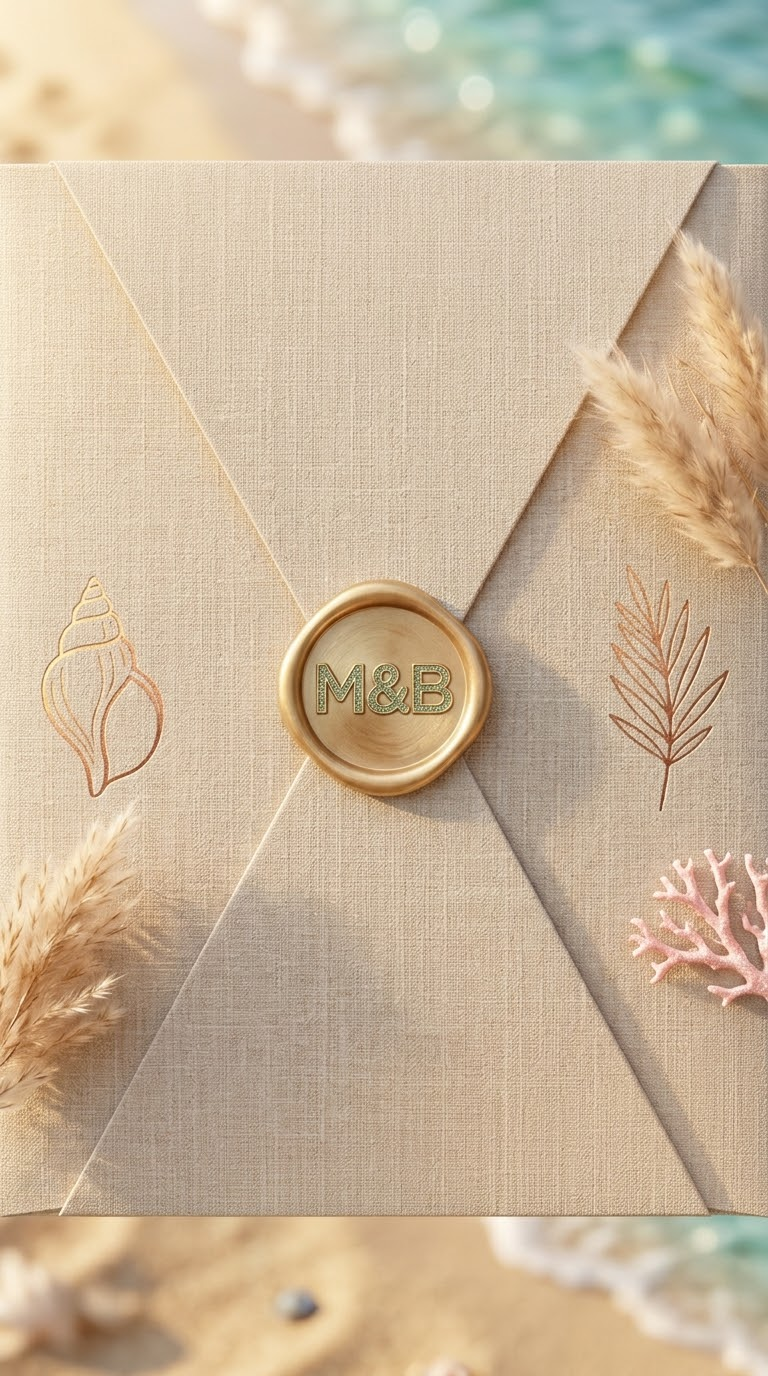
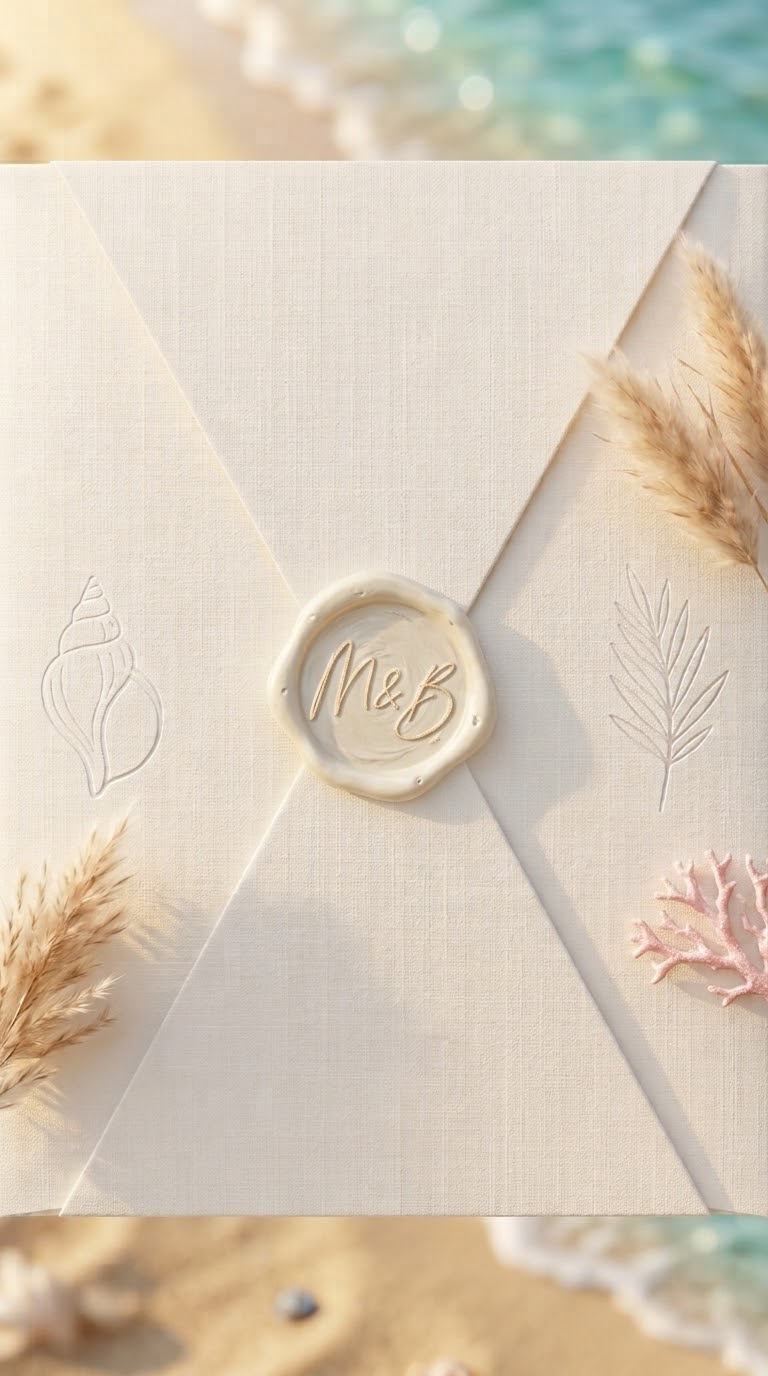
Nieuwe witte envelop, zachtere muziek, langer zonsondergangbeeld, rustiger overgang

diff --git a/envelope.js b/envelope.js
@@ -1,6 +1,6 @@
 // Bouwt de strandenvelop (assets/envelop-strand.png) op in losse lagen:
 // achtergrond, vier kleppen met een linnen binnenkant, het zegel in twee helften
-// en een kaart van de rosé-gouden folie waarlangs het zonlicht loopt.
+// en een kaart van het blinddruk-reliëf (schelp en blad) waarlangs het zonlicht loopt.
 // De beweging zelf staat in styles.css; deze code knipt alleen de lagen uit.
 
 // Maten in pixels van de originele afbeelding (768 × 1376).
@@ -16,18 +16,15 @@ const G = {
   bottomTip: [386, 660],
   leftTip: [365, 695],
   rightTip: [409, 700],
-  seal: [385, 688, 114], // midden en straal
+  seal: [383, 686, 117], // midden en straal
   // het puntje van de pampaspluim valt over de vouwlijn van de bovenklep; dat stukje gaat mee met de rechterklep
   notch: [[614, 330], [585, 340], [572, 356], [580, 372], [595, 372]],
   foil: [[30, 565, 150, 245], [600, 560, 128, 260]], // schelp en blad: x, y, breedte, hoogte
   linen: [170, 190, 420, 150], // schoon stuk linnen, voor de binnenkant van de kleppen
-  letters: [312, 658, 148, 64], // de oorspronkelijke letters M&B op het zegel: x, y, breedte, hoogte
-  // M, & en B uit assets/namen.png (La Luxes Script): begin en eind in pixels
-  glyphs: { M: [14, 163], amp: [412, 512], B: [556, 685] },
   water: [[380, 20, 388, 130], [480, 1235, 288, 120]], // zee boven en onder de envelop, voor de schittering
 };
 
-export async function buildEnvelope(stage, src, lettersSrc) {
+export async function buildEnvelope(stage, src) {
   const img = new Image();
   img.src = src;
   await img.decode();
@@ -36,17 +33,13 @@ export async function buildEnvelope(stage, src, lettersSrc) {
   const h = img.naturalHeight;
   const k = w / G.width;
   const scale = (v) => (Array.isArray(v) ? v.map(scale) : v * k);
-  const g = Object.fromEntries(Object.entries(G).map(([key, v]) => [key, key === 'glyphs' ? v : scale(v)]));
+  const g = Object.fromEntries(Object.entries(G).map(([key, v]) => [key, scale(v)]));
   const pct = (x, y) => `${((x / w) * 100).toFixed(3)}% ${((y / h) * 100).toFixed(3)}%`;
 
   stage.style.aspectRatio = `${w} / ${h}`;
   const scene = stage.querySelector('.env-scene');
 
   const original = canvasFrom(img, w, h);
-  const lettering = new Image();
-  lettering.src = lettersSrc;
-  await lettering.decode();
-  engraveMonogram(original, lettering, g, k);
   const originalData = original.getContext('2d').getImageData(0, 0, w, h);
 
   /* Kleppen: vlakken van de envelop; onder het zegel aangevuld met linnen */
@@ -63,6 +56,11 @@ export async function buildEnvelope(stage, src, lettersSrc) {
     bottom: [g.bottomLeft, g.bottomTip, g.bottomRight],
     top: [g.topLeft, g.topRight, ...notch, g.topTip],
   };
+  // Heel papier onder de kleppen, zodat de kniplijnen tussen de kleppen niet doorschemeren zolang ze dicht zijn.
+  const under = makeCanvas(w, h);
+  under.getContext('2d').drawImage(paper, 0, 0);
+  under.className = 'env-layer env-paper';
+  scene.querySelector('.env-flaps').append(under);
   const linenTile = linenCanvas(original, g.linen);
   const linenUrl = linenTile.toDataURL('image/jpeg', 0.85);
 
@@ -90,7 +88,7 @@ export async function buildEnvelope(stage, src, lettersSrc) {
   }
 
   /* Zegel: goud uit de afbeelding geknipt, in twee helften langs een grillige breuk */
-  const sealMask = sealCanvas(original, originalData, sx, sy, sr, k);
+  const sealMask = sealCanvas(original, sx, sy, sr, k);
   const crack = [];
   for (let i = 0; i <= 10; i++) crack.push([sx + (i % 2 ? 7 : -6) * k * (i === 0 || i === 10 ? 0 : 1), sy - sr + (i / 10) * 2 * sr]);
   const halves = ['left', 'right'].map((side) => {
@@ -165,74 +163,6 @@ export async function buildEnvelope(stage, src, lettersSrc) {
   };
 }
 
-// Vervangt de letters op het zegel door M&B in La Luxes, als in het goud gedrukt.
-function engraveMonogram(canvas, lettering, g, k) {
-  const ctx = canvas.getContext('2d');
-  const [lx, ly, lw, lh] = g.letters;
-
-  // 1. oude letters weg: elke kolom vloeit over van het goud erboven naar het goud eronder
-  const image = ctx.getImageData(0, 0, canvas.width, canvas.height);
-  const { data, width } = image;
-  const top = Math.round(ly);
-  const bottom = Math.round(ly + lh);
-  const feather = 6 * k;
-  for (let x = Math.round(lx - feather); x <= lx + lw + feather; x++) {
-    const edge = Math.min(1, Math.min(x - (lx - feather), lx + lw + feather - x) / feather);
-    for (let y = top; y <= bottom; y++) {
-      const f = (y - top) / (bottom - top);
-      const i = (y * width + x) * 4;
-      const a = (top * width + x) * 4;
-      const b = (bottom * width + x) * 4;
-      for (let c = 0; c < 3; c++) data[i + c] = data[i + c] * (1 - edge) + (data[a + c] * (1 - f) + data[b + c] * f) * edge;
-    }
-  }
-  ctx.putImageData(image, 0, 0);
-
-  // 2. M, & en B uit de namen knippen en tot één monogram samenvoegen
-  const parts = [g.glyphs.M, g.glyphs.amp, g.glyphs.B];
-  const overlap = 18;
-  const glyphW = parts.reduce((sum, [a, b]) => sum + (b - a), 0) - overlap * (parts.length - 1);
-  const mono = makeCanvas(glyphW + 8, lettering.height);
-  const mctx = mono.getContext('2d');
-  let cursor = 4;
-  for (const [a, b] of parts) {
-    mctx.drawImage(lettering, a, 0, b - a, lettering.height, cursor, 0, b - a, lettering.height);
-    cursor += b - a - overlap;
-  }
-
-  // 3. in drie lagen op het zegel: schaduw, goud en een lichte rand bovenaan
-  const targetW = 150 * k;
-  const scale = targetW / mono.width;
-  const dw = mono.width * scale;
-  const dh = mono.height * scale;
-  const [sx, sy] = g.seal;
-  const dx = sx - dw / 2;
-  const dy = sy - dh / 2 + 4 * k;
-  const tint = (color) => {
-    const c = makeCanvas(mono.width, mono.height);
-    const tctx = c.getContext('2d');
-    tctx.drawImage(mono, 0, 0);
-    tctx.globalCompositeOperation = 'source-in';
-    tctx.fillStyle = color;
-    tctx.fillRect(0, 0, c.width, c.height);
-    return c;
-  };
-  const shadow = tint('rgba(92, 60, 18, 0.75)');
-  const body = tint('#a87a2c');
-  const light = tint('rgba(255, 241, 196, 0.9)');
-  const stamp = (layer, ox, oy) => {
-    // de lijnen zijn dun op dit formaat; een paar keer licht verschoven stempelen maakt ze voller
-    for (const [ax, ay] of [[0, 0], [0.5, 0], [0, 0.5], [0.5, 0.5]]) ctx.drawImage(layer, dx + (ox + ax) * k, dy + (oy + ay) * k, dw, dh);
-  };
-  ctx.save();
-  ctx.shadowColor = 'rgba(90, 60, 20, 0.35)';
-  ctx.shadowBlur = 2 * k;
-  stamp(shadow, 0.9, 1.2);
-  ctx.restore();
-  stamp(light, -0.7, -0.7);
-  stamp(body, 0, 0);
-}
-
 function pathOf(points) {
   const p = new Path2D();
   points.forEach(([x, y], i) => (i ? p.lineTo(x, y) : p.moveTo(x, y)));
@@ -277,47 +207,40 @@ function linenCanvas(original, [lx, ly, lw, lh]) {
   return c;
 }
 
-// Het gouden zegel: alles binnen de cirkel dat duidelijk goud is, met een zachte rand.
-function sealCanvas(original, originalData, cx, cy, r, k) {
+// Het zegel: een cirkel met een zachte rand (ivoor op wit linnen is niet op kleur te scheiden).
+function sealCanvas(original, cx, cy, r, k) {
   const { width: w, height: h } = original;
   const out = makeCanvas(w, h);
   const ctx = out.getContext('2d');
-  const image = ctx.createImageData(w, h);
-  const d = image.data;
-  const s = originalData.data;
-  for (let y = Math.floor(cy - r); y <= cy + r; y++) {
-    for (let x = Math.floor(cx - r); x <= cx + r; x++) {
-      const dist = Math.hypot(x - cx, y - cy);
-      if (dist > r) continue;
-      const i = (y * w + x) * 4;
-      const warm = s[i] - s[i + 2];
-      let a = Math.min(1, Math.max(0, (warm - 52) / 22));
-      if (dist < r - 30 * k) a = 1; // het midden met de letters altijd meenemen
-      a *= Math.min(1, (r - dist) / 3);
-      d[i] = s[i];
-      d[i + 1] = s[i + 1];
-      d[i + 2] = s[i + 2];
-      d[i + 3] = a * 255;
-    }
-  }
-  ctx.putImageData(image, 0, 0);
+  const soft = ctx.createRadialGradient(cx, cy, r - 3 * k, cx, cy, r);
+  soft.addColorStop(0, '#000');
+  soft.addColorStop(1, 'rgba(0, 0, 0, 0)');
+  ctx.fillStyle = soft;
+  ctx.beginPath();
+  ctx.arc(cx, cy, r, 0, Math.PI * 2);
+  ctx.fill();
+  ctx.globalCompositeOperation = 'source-in';
+  ctx.drawImage(original, 0, 0);
   return out;
 }
 
-// De rosé-gouden lijntjes van schelp en blad: warmer en donkerder dan het linnen eromheen.
+// De lijnen van schelp en blad zijn blind in het papier gedrukt: ze vallen op doordat ze
+// lichter of donkerder zijn dan het papier vlak eromheen (hoogdoorlaat van de helderheid).
 function foilMask(originalData, g, w) {
   const s = originalData.data;
-  const on = new Uint8Array(s.length / 4);
-  const strength = new Uint8Array(s.length / 4);
+  const h = s.length / 4 / w;
+  const lum = new Float32Array(w * h);
+  for (let p = 0; p < w * h; p++) lum[p] = 0.3 * s[p * 4] + 0.59 * s[p * 4 + 1] + 0.11 * s[p * 4 + 2];
+  const r = Math.max(2, Math.round((5 * w) / 768));
+  const blurred = boxBlur(boxBlur(lum, w, h, r), w, h, r);
+  const on = new Uint8Array(w * h);
+  const strength = new Uint8Array(w * h);
   for (const [bx, by, bw, bh] of g.foil) {
     for (let y = Math.round(by); y < by + bh; y++) {
       for (let x = Math.round(bx); x < bx + bw; x++) {
         const p = y * w + x;
-        const i = p * 4;
-        const warm = s[i] - s[i + 2];
-        const lum = 0.3 * s[i] + 0.59 * s[i + 1] + 0.11 * s[i + 2];
-        const a = Math.min(1, Math.max(0, (warm - 52) / 25)) * Math.min(1, Math.max(0, (196 - lum) / 20));
-        if (a > 0.3) {
+        const a = Math.min(1, Math.max(0, (Math.abs(lum[p] - blurred[p]) - FOIL_THRESHOLD) / 6));
+        if (a > 0.25) {
           on[p] = 1;
           strength[p] = a * 255;
         }
@@ -326,8 +249,34 @@ function foilMask(originalData, g, w) {
   }
   return { on, strength };
 }
+const FOIL_THRESHOLD = 7;
 
-// Zoekt alle losse lijnen in de foliekaart en berekent per pixel wanneer het licht er aankomt.
+// Kastfilter: eerst horizontaal, dan verticaal, met een lopende som.
+function boxBlur(src, w, h, r) {
+  const tmp = new Float32Array(w * h);
+  const out = new Float32Array(w * h);
+  const size = 2 * r + 1;
+  for (let y = 0; y < h; y++) {
+    const row = y * w;
+    let sum = 0;
+    for (let x = -r; x <= r; x++) sum += src[row + Math.min(w - 1, Math.max(0, x))];
+    for (let x = 0; x < w; x++) {
+      tmp[row + x] = sum / size;
+      sum += src[row + Math.min(w - 1, x + r + 1)] - src[row + Math.max(0, x - r)];
+    }
+  }
+  for (let x = 0; x < w; x++) {
+    let sum = 0;
+    for (let y = -r; y <= r; y++) sum += tmp[Math.min(h - 1, Math.max(0, y)) * w + x];
+    for (let y = 0; y < h; y++) {
+      out[y * w + x] = sum / size;
+      sum += tmp[Math.min(h - 1, y + r + 1) * w + x] - tmp[Math.max(0, y - r) * w + x];
+    }
+  }
+  return out;
+}
+
+// Zoekt alle losse lijnen in de reliëfkaart en berekent per pixel wanneer het licht er aankomt.
 function traceRoutes({ on, strength }, w, h, g) {
   const [sx, sy] = g.seal;
   const dist = new Float32Array(w * h).fill(-1);

diff --git a/styles.css b/styles.css
@@ -73,7 +73,7 @@ body.is-sealed .hero > * { animation-play-state: paused; }
   z-index: 20;
   overflow: hidden;
   background: #e6dccd;
-  transition: opacity 1s ease;
+  transition: opacity 2.4s ease;
 }
 .env-backdrop {
   position: absolute;
@@ -99,7 +99,7 @@ body.is-sealed .hero > * { animation-play-state: paused; }
   inset: 0;
   perspective: 2200px;
   transform-origin: 50% 46%;
-  transition: transform 1.5s cubic-bezier(0.55, 0, 0.2, 1);
+  transition: transform 3s cubic-bezier(0.45, 0, 0.25, 1);
 }
 
 .env-layer { position: absolute; inset: 0; width: 100%; height: 100%; display: block; pointer-events: none; }
@@ -186,6 +186,7 @@ body.is-sealed .hero > * { animation-play-state: paused; }
 
 /* A: de vier kleppen vouwen om hun buitenrand open: eerst boven, dan onder, dan de zijkanten */
 .env-flaps { position: absolute; inset: 0; }
+.envelope.open .env-paper { visibility: hidden; }
 .env-flap {
   position: absolute;
   inset: 0;
@@ -233,7 +234,7 @@ body.is-sealed .hero > * { animation-play-state: paused; }
 .envelope.crack .env-seal-left { transform: translate(-7%, 26%) rotate(-24deg); opacity: 0; }
 .envelope.crack .env-seal-right { transform: translate(7%, 30%) rotate(20deg); opacity: 0; }
 
-.envelope.zoom .env-scene { transform: scale(1.7); }
+.envelope.zoom .env-scene { transform: scale(1.35); }
 
 /* De namen vliegen van de zonsondergang naar hun plek op de site */
 .names-flight {
@@ -243,7 +244,7 @@ body.is-sealed .hero > * { animation-play-state: paused; }
   background: #fffaf2;
   filter: drop-shadow(0 2px 12px rgba(120, 50, 10, 0.45));
   pointer-events: none;
-  transition: left 1.6s cubic-bezier(0.6, 0, 0.2, 1), top 1.6s cubic-bezier(0.6, 0, 0.2, 1), width 1.6s cubic-bezier(0.6, 0, 0.2, 1), background-color 1.1s ease 0.25s, filter 1.1s ease 0.25s;
+  transition: left 2.6s cubic-bezier(0.45, 0, 0.25, 1), top 2.6s cubic-bezier(0.45, 0, 0.25, 1), width 2.6s cubic-bezier(0.45, 0, 0.25, 1), background-color 1.4s ease 1.2s, filter 1.4s ease 1.2s;
 }
 .names-flight.land { background: var(--ink); filter: drop-shadow(0 0 0 transparent); }
 body.names-handoff .hero-names { animation: none; visibility: hidden; }
@@ -252,11 +253,12 @@ body.names-handoff .hero-names { animation: none; visibility: hidden; }
   position: absolute;
   left: 0;
   right: 0;
-  top: 26%;
+  top: 29%;
   margin: 0;
   text-align: center;
-  font: 400 clamp(32px, 9vw, 50px) / 1.1 var(--font-script);
-  color: #8f7658;
+  font: 300 clamp(13px, 3.6vw, 16px) / 1.5 var(--font-sans);
+  letter-spacing: 0.04em;
+  color: #8d8174;
   transition: opacity 0.6s;
 }
 .env-hint {

diff --git a/app.js b/app.js
@@ -93,7 +93,7 @@ async function setupEnvelope(invitation) {
 
   let light;
   try {
-    light = await buildEnvelope($('#env-stage'), 'assets/envelop-strand.png', 'assets/namen.png');
+    light = await buildEnvelope($('#env-stage'), 'assets/envelop-strand.png');
   } catch {
     return remove();
   }
@@ -112,14 +112,15 @@ async function setupEnvelope(invitation) {
     step('crack', 1450);
     step('open', 1800);
     step('names', 3100);
-    setTimeout(flyNames, 3900);
-    step('zoom', 3900);
-    step('fade', 4100);
-    setTimeout(() => document.body.classList.remove('is-sealed'), 4300);
+    // de zonsondergang met jullie namen blijft even rustig in beeld
+    setTimeout(flyNames, 6800);
+    step('zoom', 6800);
+    step('fade', 7200);
+    setTimeout(() => document.body.classList.remove('is-sealed'), 7800);
     setTimeout(() => {
       light.stop();
       remove();
-    }, 5500);
+    }, 10000);
   };
 
   // De namen op de zonsondergang schuiven naar hun plek bovenaan de site en kleuren mee van wit naar inkt.
@@ -141,7 +142,7 @@ async function setupEnvelope(invitation) {
     setTimeout(() => {
       document.body.classList.remove('names-handoff');
       flight.remove();
-    }, 1650);
+    }, 2700);
   };
   // ?envstate=lit,crack,open&envt=1.2 zet de envelop stil in die stand (om te testen en te vergelijken).
   const params = new URLSearchParams(location.search);
@@ -176,7 +177,7 @@ function prepareMusic(src) {
         const source = ctx.createBufferSource();
         const gain = ctx.createGain();
         const now = ctx.currentTime;
-        const volume = 0.22;
+        const volume = 0.07; // heel zacht, echt op de achtergrond
         gain.gain.setValueAtTime(0.0001, now);
         gain.gain.exponentialRampToValueAtTime(volume, now + 1.5);
         gain.gain.setValueAtTime(volume, now + 11);
